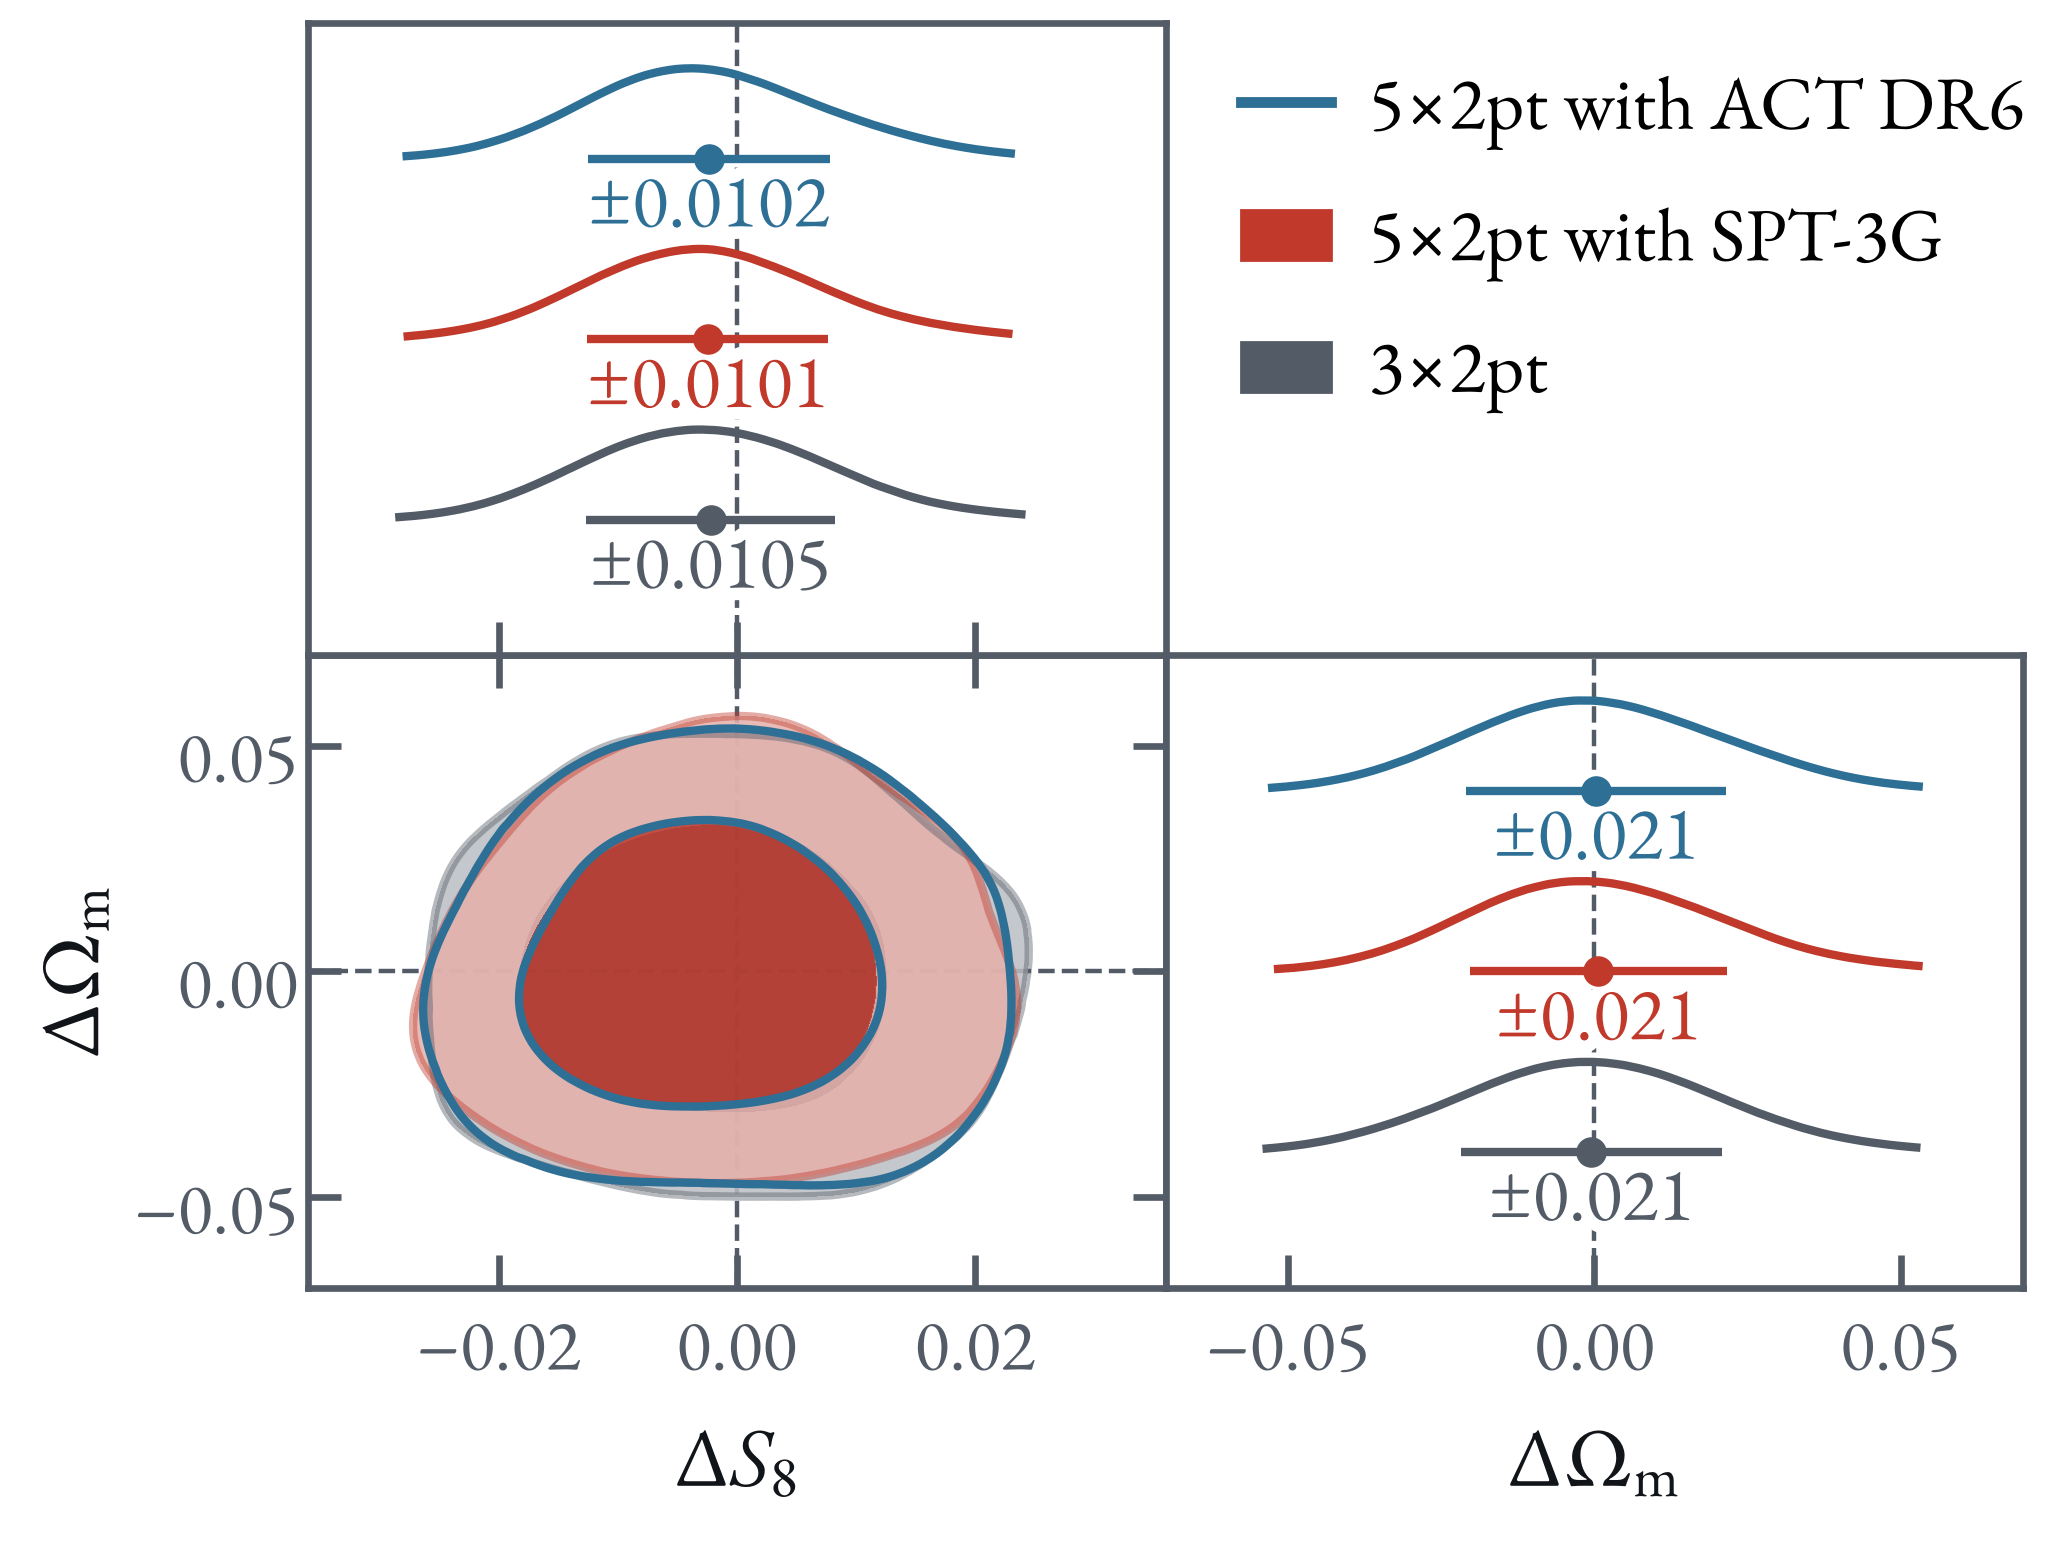
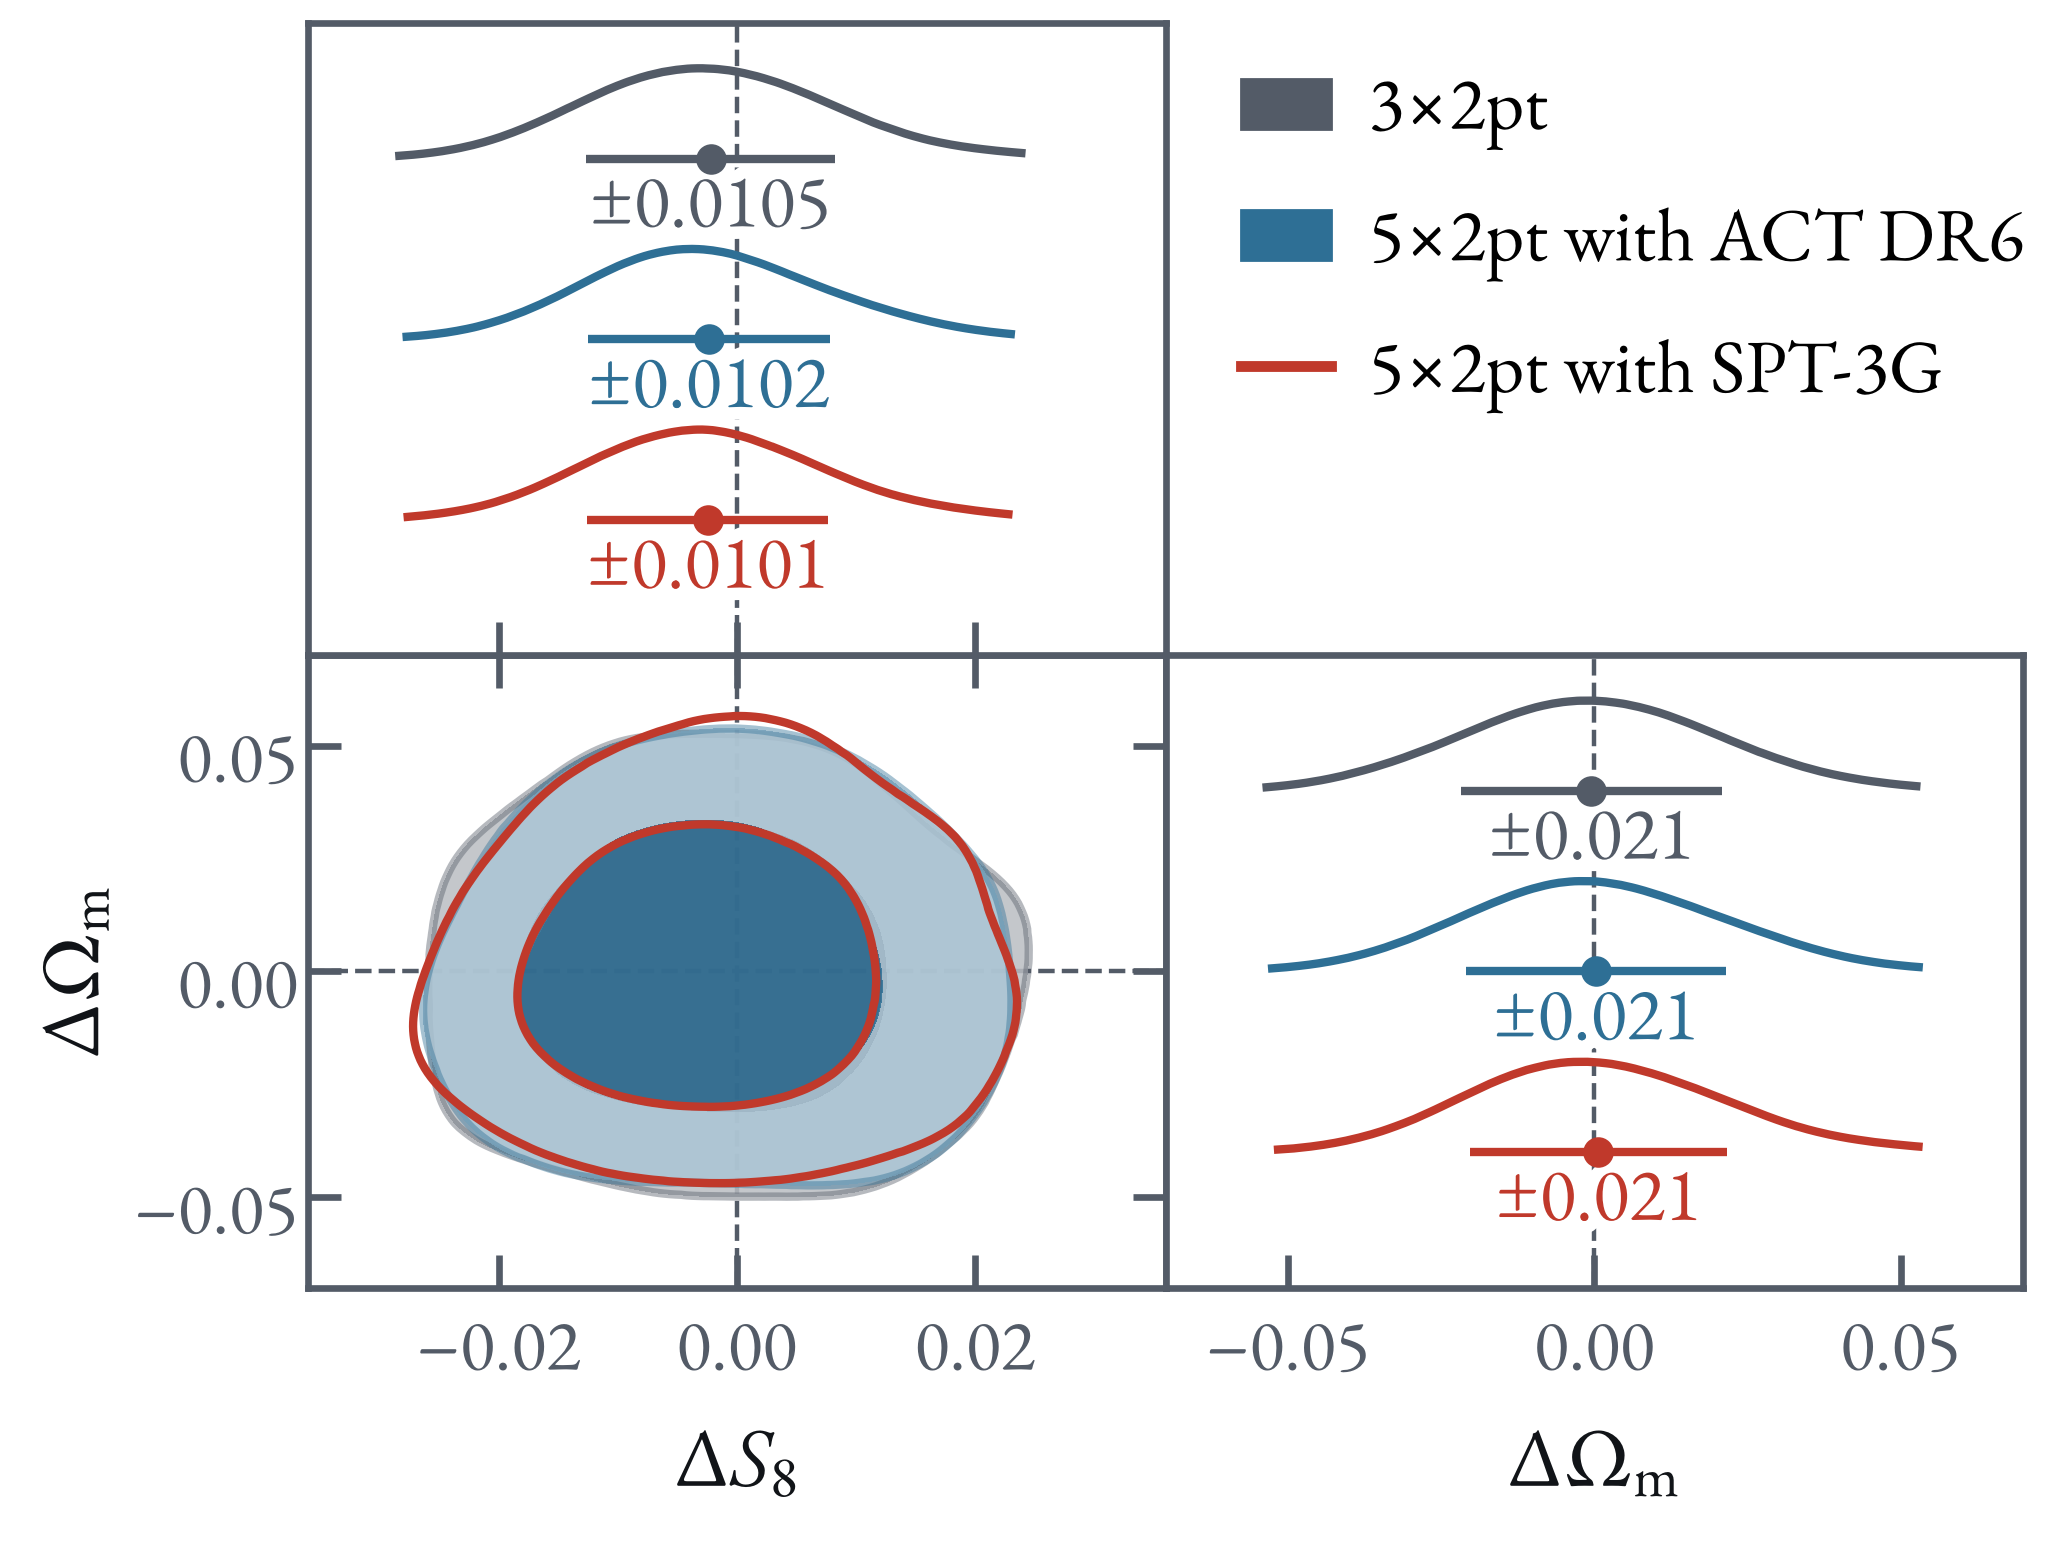
ICE dr1-forecast: rows widest to tightest, SPT-3G as the outline laid last
Claude-Session: https://claude.ai/code/session_01JK7o9HLVAQSEbDDkHmrKC6

diff --git a/2611_ICE_Barcelona/make_dr1_forecast.py b/2611_ICE_Barcelona/make_dr1_forecast.py
@@ -72,20 +72,27 @@ def main():
     z, zw = np.load(args.src), np.load(args.wide)
     truth = dict(zip(DERIVED, z['dr1_3x2|t'].astype(float)))
     base = chain(z, 'dr1_3x2', '3×2pt', EUCLID)
-    frames = [[base]] + [[base, chain(z, f'dr1_MS_{n}x2', f'{n}×2pt with SPT-3G', SPT),
-                          chain(z, f'dr1_A_{n}x2', f'{n}×2pt with ACT DR6', ACT, False)] for n in (5, 6)]
-    # wide priors, in two frames: the 3×2pt against itself, then the 5×2pt added as the bottom row
-    wide3 = [chain(zw, 'dr1_3x2_pw10', '3×2pt, wide priors', EUCLID), chain(z, 'dr1_3x2', '3×2pt', style.INK, False)]
-    frames += [wide3, [chain(zw, 'dr1_MS_5x2_pw10', '5×2pt, wide priors', SPT)] + wide3]
-    for k, chains in enumerate(frames, 1):
+    ink = chain(z, 'dr1_3x2', '3×2pt', style.INK, False)
+    wide3 = chain(zw, 'dr1_3x2_pw10', '3×2pt, wide priors', EUCLID)
+    wide5 = chain(zw, 'dr1_MS_5x2_pw10', '5×2pt, wide priors', SPT)
+    # Each frame: its rows from top to bottom (widest first), then the order its contours are laid down, outlines last.
+    frames = [([base], [base])]
+    for n in (5, 6):
+        act = chain(z, f'dr1_A_{n}x2', f'{n}×2pt with ACT DR6', ACT)
+        spt = chain(z, f'dr1_MS_{n}x2', f'{n}×2pt with SPT-3G', SPT, False)
+        frames.append(([base, act, spt], [base, act, spt]))
+    frames += [([ink, wide3], [wide3, ink]), ([ink, wide3, wide5], [wide3, wide5, ink])]
+    for k, (rows, draw) in enumerate(frames, 1):
         wide = k >= 4
+        chains = rows[::-1]
         fig = posteriors(
             chains, D, center=truth, value=False, rows=3,
             lims={'Omega_m': (-.08, .08) if wide else (-.07, .07), 'S8': (-.095, .095) if wide else (-.036, .036)},
             ticks={'Omega_m': [-.05, 0, .05], 'S8': [-.05, 0, .05] if wide else [-.02, 0, .02]})
-        if k == 5:   # rows follow the chain order; the 5×2pt contour is still drawn over the wide 3×2pt
-            sets = fig.axes[0].collections
-            sets[0].set_zorder(2.5); sets[1].set_zorder(2.6); sets[4].set_zorder(3)
+        sets = iter(fig.axes[0].collections)
+        for c in chains:
+            for part in range(2 if c.fill else 1):   # a filled chain is a fill and its outline
+                next(sets).set_zorder(2 + [id(d) for d in draw].index(id(c)) + .1 * part)
         save(fig, f'ice_dr1_forecast_{k}.png')
     fig_m(zw)
     names = sorted({k.split('|')[0] for k in z.files if k.startswith(('dr1_', 'tr1_'))})
